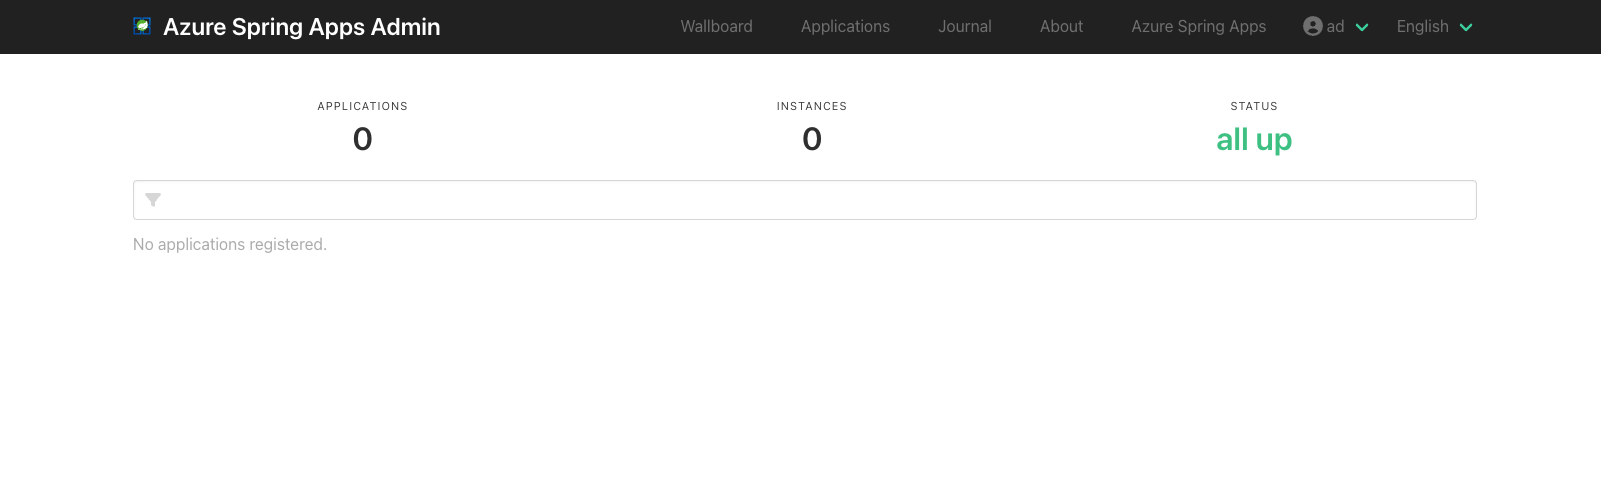
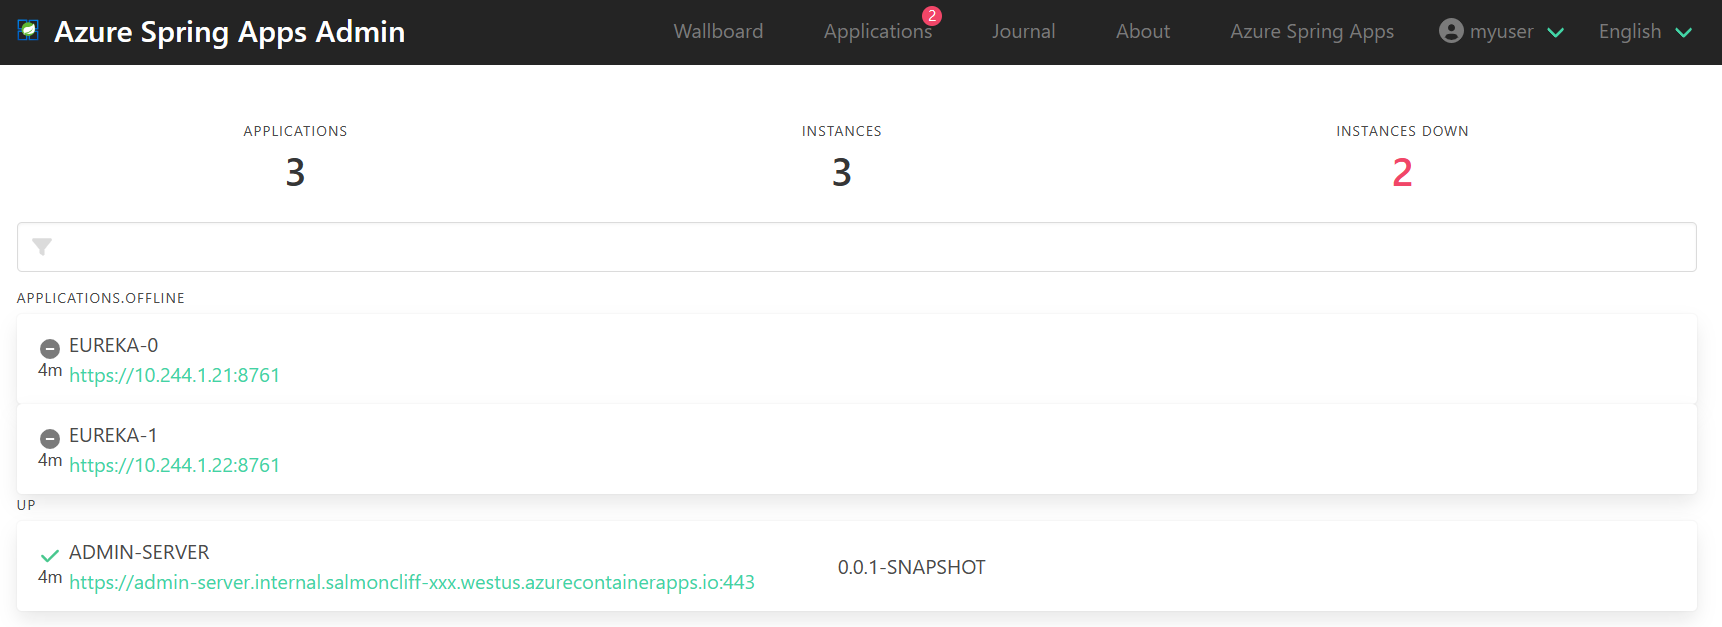
Fix comments

diff --git a/src/main/java/com/azure/spring/asa/component/admin/autoconfigure/client/AsaDefaultManagementMetadataProvider.java b/src/main/java/com/azure/spring/asa/component/admin/autoconfigure/client/AsaDefaultManagementMetadataProvider.java
@@ -13,7 +13,7 @@ import org.springframework.cloud.netflix.eureka.metadata.ManagementMetadataProvi
 import org.springframework.util.StringUtils;
 
 /**
- * Enhanced implementation of {@link DefaultManagementMetadataProvider}, it's compatible with Azure Spring Apps.
+ * Enhanced implementation of {@link DefaultManagementMetadataProvider}, it's compatible with Azure Spring Apps Standard consumption and dedicated.
  */
 public class AsaDefaultManagementMetadataProvider implements ManagementMetadataProvider {
 

diff --git a/src/main/java/com/azure/spring/asa/component/admin/autoconfigure/client/AsaEurekaClientConfiguration.java b/src/main/java/com/azure/spring/asa/component/admin/autoconfigure/client/AsaEurekaClientConfiguration.java
@@ -15,7 +15,7 @@ import java.util.Map;
 import static org.springframework.cloud.commons.util.IdUtils.getDefaultInstanceId;
 
 /**
- * Enhanced implementation of {@link EurekaClientAutoConfiguration}, it's compatible with Azure Spring Apps.
+ * Enhanced implementation of {@link EurekaClientAutoConfiguration}, it's compatible with Azure Spring Apps Standard consumption and dedicated.
  */
 @Configuration(proxyBeanMethods = false)
 public class AsaEurekaClientConfiguration {

diff --git a/README.md b/README.md
@@ -6,7 +6,7 @@ Spring Boot Admin Server is an application for managing and monitoring microserv
 
 This repository maintains a customized Spring Boot Admin Server - **Azure Spring Apps Admin**, which did some enhancements beyond community Spring Boot Admin.
 
-# What's the benefit of Azure Spring Apps Admin
+# What's the benefit of ASA components Spring Boot Admin
 
 1. Support integration with Microsoft Entra ID (Original name: Azure AD) to secure your dashboard.
 2. Support on-click Azure Spring Apps button for easy deployment without using multiple Azure commands.
@@ -14,21 +14,21 @@ This repository maintains a customized Spring Boot Admin Server - **Azure Spring
 
 # Run Azure Spring Apps Admin on Azure Spring Apps
 
-Azure Spring Apps Admin provides two usage methods. 
+ASA components Spring Boot Admin provides two usage methods. 
 By default, the Spring Boot Admin application is not protected, 
 and Microsoft Entra ID protection can also be enabled by switching `spring.cloud.azure.admin.entra-id.enabled`.
 
-## Deploy unprotected components to Azure Spring Apps
+## Deploy unprotected Spring Boot Admin to Azure Spring Apps
 
 To deploy an unprotected component, you only need an Azure subscription, and then you can run this Azure Spring Apps Admin with one click button:
 
-<a href="https://yonghui-apps-dev-nubesgen.azuremicroservices.io/deploy.html?url=https://github.com/fangjian0423/asa-admin" data-linktype="external">
+<a href="https://aka.ms/spring/asa-button?url=https://github.com/fangjian0423/asa-admin" data-linktype="external">
 <img src="https://user-images.githubusercontent.com/58474919/236122963-8c0857bb-3822-4485-892a-445fa33f1612.png" alt="Deploy to Azure Spring Apps" width="200px" data-linktype="relative-path">
 </a>
 
 Once the deployment is complete, you will redirect the application endpoint, then you can access the Spring Boot Admin dashboard.
 
-## Deploy the component integrated with Microsoft Entra ID to Azure Spring Apps
+## Deploy the Spring Boot Admin integrated with Microsoft Entra ID to Azure Spring Apps
 
 To integrate with Microsoft Entra ID and deploy Spring Boot Admin to Azure Spring Apps using the Azure Spring Apps button, you need below prerequisites:
 
@@ -39,9 +39,9 @@ To integrate with Microsoft Entra ID and deploy Spring Boot Admin to Azure Sprin
 - Microsoft Entra ID registration application client secret to enable Microsoft Entra ID - Adding `AAD_CLIENT_SECRET` environment variable
 - Microsoft Entra ID registration application tenant id to enable Microsoft Entra ID - Adding `AAD_TENANT_ID` environment variable
 
-Then, you can run this Azure Spring Apps Admin with one click button:
+Then, you can run this Spring Boot Admin with one click button:
 
-<a href="https://yonghui-apps-dev-nubesgen.azuremicroservices.io/deploy.html?url=https://github.com/fangjian0423/asa-admin" data-linktype="external">
+<a href="https://aka.ms/spring/asa-button?url=https://github.com/fangjian0423/asa-admin" data-linktype="external">
 <img src="https://user-images.githubusercontent.com/58474919/236122963-8c0857bb-3822-4485-892a-445fa33f1612.png" alt="Deploy to Azure Spring Apps" width="200px" data-linktype="relative-path">
 </a>
 
@@ -62,6 +62,11 @@ After everything deploy successful, managing and monitoring your apps via Azure 
 ![](assets/dashboard.png)
 
 ## Troubleshooting
+
+### Why the Azure Spring Apps managed Eureka component status is down
+
+The Eureka instances are fully managed components by Azure Spring Apps. The `down` status does not really indicate a problem, 
+In order to ensure Eureka security, the interface access of its actuator is not open, so its status cannot be detected.
 
 ### OAuth2 login failed when configured the property `spring.boot.admin.context-path`
 
